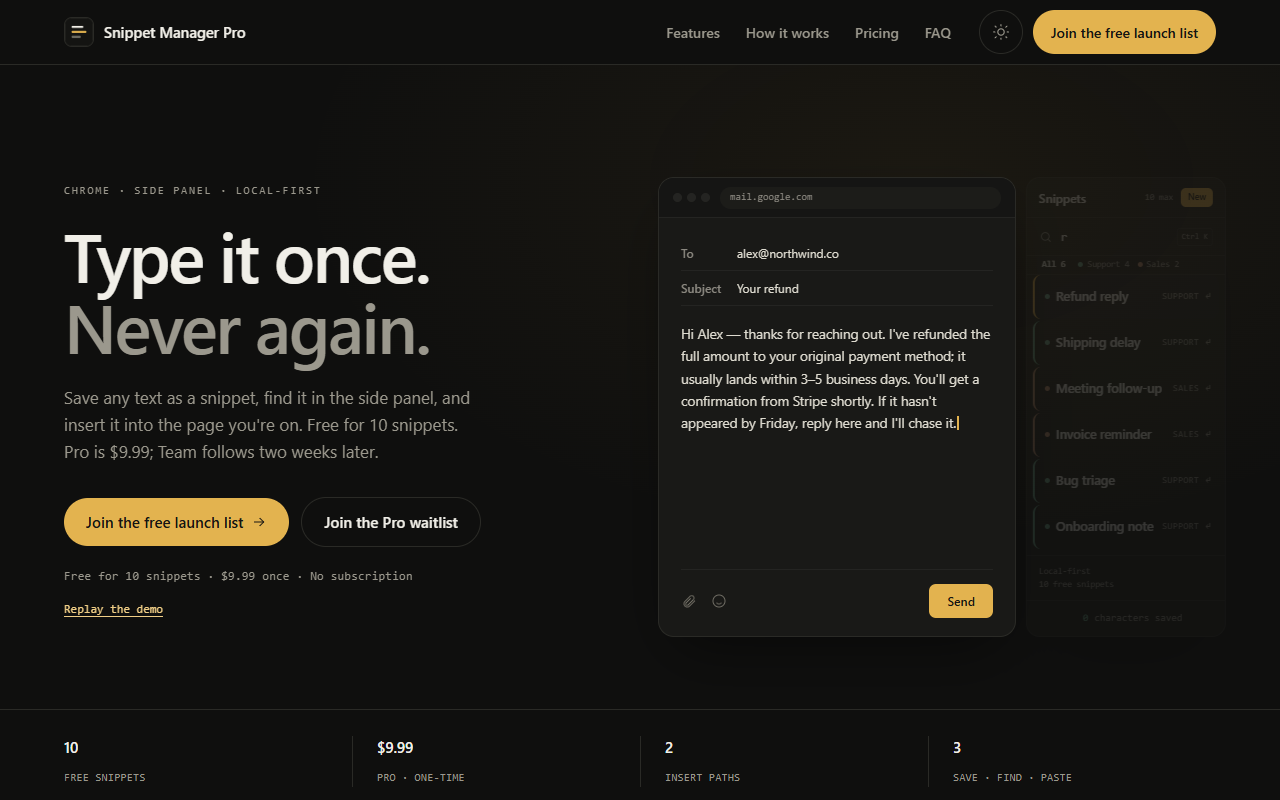
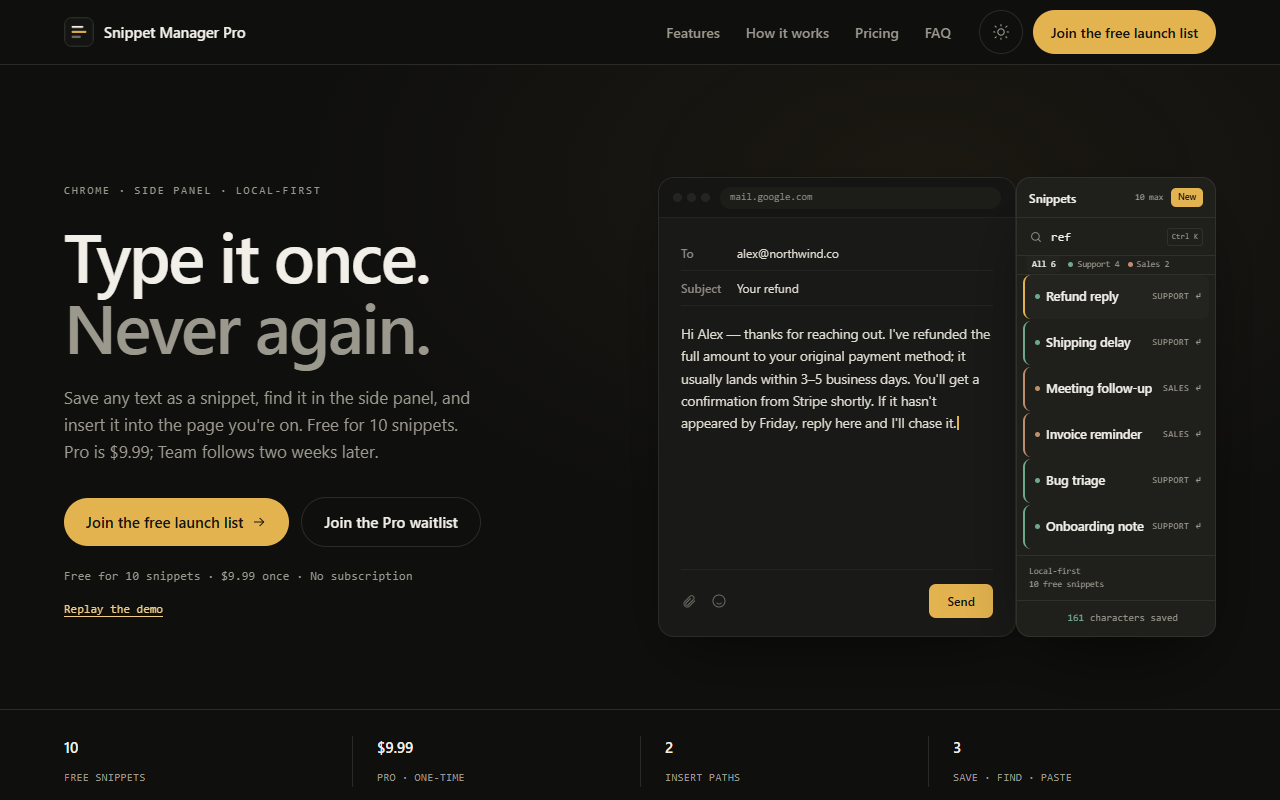
fix: resolve 2-agent PR review blockers, accessibility, and PDF/regex checks
Removes Carenet-specific Salesforce phrasing from downloadable PDF resumes, fixes AI QA gate plural/percentage regexes (4/4 defects caught), renders real blocked error reasons in HRIS table, adds Object.hasOwn focus guard, fixes dark-hero focus-visible contrast and print CSS, resolves ARIA generic-div naming and prev/next nav parity, and expands automated PDF and Playwright tests.

diff --git a/index.html b/index.html
@@ -88,7 +88,7 @@
         Three years full-time remote at Carenet Health supervising up to 80 specialists across 900+ clinical facilities and 200+ CenterWell locations plus six years of regulated Medicaid coordination, paired with hands-on web development, Python/REST API/Zapier automation, Stripe billing QA, and interactive SOP tooling.
       </p>
 
-      <div class="availability-bar" aria-label="Work authorization and W-2 availability">
+      <div class="availability-bar" role="group" aria-label="Work authorization and W-2 availability">
         <span class="avail-pill avail-pill-accent">Seeking Full-Time Remote W-2 Role</span>
         <span class="avail-pill">US Authorized (No Sponsorship)</span>
         <span class="avail-pill">Remote US (Eastern Time) | Immediate Start</span>
@@ -102,7 +102,7 @@
       </div>
       <p id="action-status" class="meta-note hero-note mt-sm" aria-live="polite"></p>
 
-      <div class="lens-bar mt-md" aria-label="Tailor portfolio view by hiring focus">
+      <div class="lens-bar mt-md">
         <span class="lens-label">Hiring for? Pick a lens:</span>
         <div class="filter-bar mb-0" role="group" aria-label="Filter work samples by role focus">
           <button class="filter-pill" type="button" data-filter="all" aria-pressed="true">All Proof (6)</button>
@@ -116,7 +116,7 @@
 
       <div id="focus-callout" class="callout callout-hero" hidden aria-live="polite"></div>
 
-      <div class="scope-grid" aria-label="Career scope overview">
+      <div class="scope-grid" role="group" aria-label="Career scope overview">
         <div class="scope-card">
           <div class="scope-value">Up to 80 Specialists</div>
           <div class="scope-label">900+ clinical facilities &amp; 200+ after-hours CenterWell sites supported at Carenet Health (2022 - 2025)</div>
@@ -146,7 +146,7 @@
         </div>
       </div>
 
-      <div class="panel workbench-panel mt-0" id="live-workbench" aria-labelledby="workbench-heading">
+      <section class="panel workbench-panel mt-0" id="live-workbench" aria-labelledby="workbench-heading">
         <div class="section-header mb-sm">
           <div>
             <span class="tag">30-Second Live Proof</span>
@@ -162,8 +162,8 @@
         <div id="wb-panel-hc" role="tabpanel" aria-labelledby="wb-tab-hc" tabindex="0">
           <p class="meta-note mt-0">Click a synthetic healthcare scenario to generate an audit-ready supervisor handoff note:</p>
           <div class="hero-actions mt-sm">
-            <button class="btn btn-secondary btn-sm" type="button" data-wb-hc="elig">Medicaid Eligibility Mismatch</button>
-            <button class="btn btn-secondary btn-sm" type="button" data-wb-hc="afterhours">After-Hours Clinical Warm Handoff</button>
+            <button class="btn btn-secondary btn-sm wb-toggle" type="button" data-wb-hc="elig" aria-pressed="true">Medicaid Eligibility Mismatch</button>
+            <button class="btn btn-secondary btn-sm wb-toggle" type="button" data-wb-hc="afterhours" aria-pressed="false">After-Hours Clinical Warm Handoff</button>
             <a class="btn btn-sm" href="./samples/healthcare-escalation-qa.html">Open Full Healthcare QA Playbook &rarr;</a>
           </div>
           <pre id="wb-hc-output" class="mt-sm" aria-live="polite">[SYNTHETIC CASE - ELIGIBILITY QA] Primary payer portal verified active effective 2026-11-01 (CRM cache showed stale 2026-10-31 term). Confirmed coverage window for clinic coordinator, logged verification timestamp in CRM, and flagged sync lag for Ops review.</pre>
@@ -195,7 +195,7 @@
           </div>
           <pre id="wb-tech-output" class="mt-sm" aria-live="polite">Click "Run Validation Check" to inspect caught ISO-8601 date and Stripe HMAC-SHA256 defects.</pre>
         </div>
-      </div>
+      </section>
 
       <p id="filter-status" class="meta-note mt-md" aria-live="polite">Showing all 6 work samples.</p>
 
@@ -534,7 +534,7 @@
     <span>
       <a href="mailto:joshuawilliamsky@yahoo.com">joshuawilliamsky@yahoo.com</a> |
       <a href="https://www.linkedin.com/in/josh-williams-094338120" target="_blank" rel="noopener">LinkedIn</a> |
-      <a href="https://github.com/Coding-Dev-Tools" target="_blank" rel="noopener">GitHub</a> |
+      <a href="https://github.com/Coding-Dev-Tools" target="_blank" rel="noopener">GitHub</a><span class="print-hide"> | </span>
       <button class="footer-link-btn" type="button" id="print-summary-btn">Print Summary</button>
     </span>
   </footer>

diff --git a/app.js b/app.js
@@ -63,10 +63,12 @@
     afterhours:
       "[SYNTHETIC CASE - AFTER-HOURS WARM HANDOFF] Verified active on-call roster for Clinic Site #204. Primary on-call clinician confirmed callback live at 21:14 ET; logged named receiving owner, timestamp, and written facility confirmation.",
   };
-  document.querySelectorAll("[data-wb-hc]").forEach((btn) => {
+  const wbHcButtons = Array.from(document.querySelectorAll("[data-wb-hc]"));
+  wbHcButtons.forEach((btn) => {
     btn.addEventListener("click", () => {
       const key = btn.getAttribute("data-wb-hc");
-      if (wbHcOut && WB_HC_NOTES[key]) wbHcOut.textContent = WB_HC_NOTES[key];
+      wbHcButtons.forEach((b) => b.setAttribute("aria-pressed", b === btn ? "true" : "false"));
+      if (wbHcOut && Object.hasOwn(WB_HC_NOTES, key)) wbHcOut.textContent = WB_HC_NOTES[key];
     });
   });
 
@@ -111,7 +113,7 @@
 
   function applyFilter(key, updateQuery = true) {
     const cleanKey = (key || "all").toLowerCase();
-    const normalized = FOCUS_MAP[cleanKey] || "all";
+    const normalized = Object.hasOwn(FOCUS_MAP, cleanKey) ? FOCUS_MAP[cleanKey] : "all";
     let visibleCount = 0;
 
     buttons.forEach((btn) => {
@@ -142,9 +144,9 @@
     }
 
     if (focusCallout) {
-      const note = FOCUS_NOTES[normalized];
+      const note = Object.hasOwn(FOCUS_NOTES, normalized) ? FOCUS_NOTES[normalized] : "";
       focusCallout.hidden = !note;
-      focusCallout.textContent = note || "";
+      focusCallout.textContent = note;
     }
 
     if (

diff --git a/styles.css b/styles.css
@@ -99,6 +99,10 @@ a:hover {
   outline-offset: 2px;
 }
 
+.hero-dark :focus-visible {
+  outline-color: #5eead4;
+}
+
 .topbar {
   position: sticky;
   top: 0;
@@ -533,6 +537,12 @@ a:hover {
 
 .workbench-panel {
   border-left: 4px solid var(--teal);
+}
+
+.wb-toggle[aria-pressed="true"] {
+  background: var(--teal-soft);
+  border-color: var(--teal);
+  color: var(--teal-hover);
 }
 
 .role-card-anchor {
@@ -1153,7 +1163,10 @@ pre {
   #tree-reset,
   #tree-back,
   #tree-copy,
+  #hc-copy-note,
+  #wh-copy-comms,
   #quiz-reset,
+  .print-hide,
   .footer-link-btn,
   .actions {
     display: none !important;
@@ -1167,14 +1180,21 @@ pre {
     color: #0f172a !important;
     border: 1px solid #cbd5e1 !important;
   }
-  .hero-dark h1,
-  .hero-dark .hero-subtitle,
-  .hero-dark .scope-value,
-  .hero-dark .scope-label,
-  .hero-dark .avail-pill,
-  .hero-dark .eyebrow {
+  .hero.hero-dark h1,
+  .hero.hero-dark .hero-subtitle,
+  .hero.hero-dark .scope-value,
+  .hero.hero-dark .scope-label,
+  .hero.hero-dark .hero-note {
+    color: #0f172a !important;
+    background: transparent !important;
+  }
+  .hero.hero-dark .scope-card,
+  .hero.hero-dark .avail-pill,
+  .hero.hero-dark .eyebrow,
+  .hero.hero-dark .callout-hero {
     color: #0f172a !important;
     background: #f8fafc !important;
+    border-color: #cbd5e1 !important;
   }
   .hero,
   .panel,

diff --git a/demos/hris-identity/index.html b/demos/hris-identity/index.html
@@ -129,7 +129,8 @@ EMP-1003,leave,Casey Rivera,Engineering,mgr-eng@example.test,2026-10-13,terminat
           addCell(row, event.action || "-", "", "Event");
           const reviewStatus = event.decision === "blocked" ? "Blocked" : "Review recommended";
           addCell(row, reviewStatus, event.decision === "blocked" ? "blocked" : "pending", "Review status");
-          addCell(row, event.review_summary || event.errors.join("; "), "", "Recommendation");
+          const recommendation = event.decision === "blocked" ? event.errors.join("; ") : event.review_summary;
+          addCell(row, recommendation, "", "Recommendation");
           resultsBody.appendChild(row);
         }
         const s = result.summary;
@@ -143,9 +144,10 @@ EMP-1003,leave,Casey Rivera,Engineering,mgr-eng@example.test,2026-10-13,terminat
         } catch (error) {
           resultsBody.replaceChildren();
           const row = document.createElement("tr");
-          addCell(row, "Input error", "blocked");
+          addCell(row, "Input error", "blocked", "Review status");
           const cell = document.createElement("td");
           cell.colSpan = 3;
+          cell.setAttribute("data-label", "Details");
           cell.textContent = error.message;
           row.appendChild(cell);
           resultsBody.appendChild(row);

diff --git a/samples/samples.js b/samples/samples.js
@@ -561,12 +561,12 @@
       },
       {
         label: "Unsafe privacy / PHI workaround",
-        re: /\b(email\s+(patient|member)\s+(spreadsheet|csv|ssn|phi)|send\s+unencrypted|bypass\s+intake)\b/i,
+        re: /\b(email\s+(patient|member)\s+(spreadsheets?|csvs?|ssns?|phi)|send\s+unencrypted|bypass\s+intake)\b/i,
         fix: "Route strictly through approved encrypted queues with redacted references.",
       },
       {
         label: "Unverified percentage metric",
-        re: /\b(cuts?\s+ramp\s+time\s+by\s+\d+%|reduces?\s+errors?\s+by\s+\d+%|increases?\s+retention\s+by\s+\d+%)\b/i,
+        re: /\b(cuts?\s+ramp\s+time\s+by\s+\d+%|reduces?\s+errors?\s+by\s+\d+%|increases?\s+retention\s+by\s+\d+%)(?!\w)/i,
         fix: "Cite a real exported denominator and timeframe, or remove the unverified percentage.",
       },
       {

diff --git a/samples/ai-verification-rubric.html b/samples/ai-verification-rubric.html
@@ -147,8 +147,8 @@
 
 POLICY_GATE_RULES = (
     ("blanket_guarantee", r"\b(100%\s*(error-free|guaranteed)|all\s+50\s+states\s+verified)\b"),
-    ("unsafe_phi_shortcut", r"\b(email\s+(patient|member)\s+(spreadsheet|csv|phi)|send\s+unencrypted)\b"),
-    ("unverified_pct_claim", r"\b(cuts?\s+ramp\s+time\s+by\s+\d+%|reduces?\s+errors?\s+by\s+\d+%)\b"),
+    ("unsafe_phi_shortcut", r"\b(email\s+(patient|member)\s+(spreadsheets?|csvs?|phi)|send\s+unencrypted)\b"),
+    ("unverified_pct_claim", r"\b(cuts?\s+ramp\s+time\s+by\s+\d+%|reduces?\s+errors?\s+by\s+\d+%)(?!\w)"),
     ("escalation_suppression", r"\b(never\s+escalate|skip\s+(schema|qa)\s+checks?)\b"),
 )
 

diff --git a/samples/webhook-troubleshooting-job-aid.html b/samples/webhook-troubleshooting-job-aid.html
@@ -62,7 +62,7 @@
         <button id="tab-wh-sig" class="tab-btn" type="button" role="tab" data-webhook-case="sig_mismatch" aria-controls="wh-panel" aria-selected="false" tabindex="-1">Webhook Signature Mismatch</button>
       </div>
 
-      <div id="wh-panel" role="tabpanel" aria-labelledby="tab-wh-auth" aria-live="polite" tabindex="0">
+      <div id="wh-panel" role="tabpanel" aria-labelledby="tab-wh-auth" tabindex="0">
         <h3 id="wh-title" class="text-teal mt-sm">Case</h3>
         <p class="fw-600 mt-sm">Captured Request / Error Evidence (Sanitized Sample)</p>
         <pre id="wh-payload"></pre>

diff --git a/samples/healthcare-escalation-qa.html b/samples/healthcare-escalation-qa.html
@@ -62,7 +62,7 @@
         <button id="tab-hc-auth" class="tab-btn" type="button" role="tab" data-hc-case="auth_audit" aria-controls="hc-panel" aria-selected="false" tabindex="-1">Authorization Documentation QA</button>
       </div>
 
-      <div id="hc-panel" role="tabpanel" aria-labelledby="tab-hc-elig" aria-live="polite" tabindex="0">
+      <div id="hc-panel" role="tabpanel" aria-labelledby="tab-hc-elig" tabindex="0">
         <h3 id="hc-title" class="text-teal mt-sm">Scenario</h3>
         <div class="diff-grid mt-sm">
           <div class="diff-box bad">

diff --git a/samples/onboarding-vilt-module.html b/samples/onboarding-vilt-module.html
@@ -245,7 +245,7 @@
   </main>
 
   <footer class="footer">
-    <span><a href="../index.html">&larr; Portfolio Home</a></span>
+    <span><a href="./healthcare-escalation-qa.html">&larr; Previous: Healthcare QA</a></span>
     <span><a href="./escalation-decision-tree.html">Next Sample: Escalation Decision Tree &rarr;</a></span>
   </footer>
 

diff --git a/tests/test_portfolio_site.py b/tests/test_portfolio_site.py
@@ -38,6 +38,7 @@ FORBIDDEN_REGEXES: tuple[tuple[str, str], ...] = (
     ("cicd", r"CI/CD"),
     ("csat", r"\bCSAT\b"),
     ("sql", r"\bSQL\b"),
+    ("typescript", r"\bTypeScript\b"),
     ("ops_supervisor", r"Operations Supervisor"),
     ("care_coord", r"Care Coordinator"),
     ("bluegrass", r"Bluegrass"),
@@ -143,7 +144,7 @@ class TestPortfolioContentAndLinks(unittest.TestCase):
 
     def test_no_forbidden_claims_or_pii_in_public_site(self):
         scanned = []
-        for ext in ("*.html", "*.js", "*.md"):
+        for ext in ("*.html", "*.js", "*.md", "*.css", "*.xml"):
             scanned.extend(ROOT.rglob(ext))
         for path in scanned:
             if ".git" in path.parts:
@@ -157,6 +158,22 @@ class TestPortfolioContentAndLinks(unittest.TestCase):
                     f"{path.relative_to(ROOT)} matched forbidden pattern {name!r} ({pat!r})",
                 )
 
+        # Scan all public downloadable PDF resumes for PII, forbidden claims, and Carenet-no-Salesforce invariant.
+        from pypdf import PdfReader
+
+        for pdf_path in sorted((ROOT / "assets" / "resume").glob("*.pdf")):
+            reader = PdfReader(str(pdf_path))
+            self.assertEqual(len(reader.pages), 1, f"{pdf_path.name} must be 1 page")
+            pdf_text = "\n".join((p.extract_text() or "") for p in reader.pages)
+            for name, pat in FORBIDDEN_REGEXES:
+                self.assertIsNone(
+                    re.search(pat, pdf_text, flags=re.IGNORECASE),
+                    f"{pdf_path.relative_to(ROOT)} matched forbidden pattern {name!r} ({pat!r})",
+                )
+            self.assertIn("Carenet Health |", pdf_text, f"Missing Carenet Health role header in {pdf_path.name}")
+            c_slice = pdf_text[pdf_text.index("Carenet Health |") : pdf_text.index("Independent SaaS Partner")]
+            self.assertNotIn("Salesforce", c_slice, f"Carenet-specific Salesforce wording in {pdf_path.name}")
+
         # Ensure Carenet role card keeps verified wording ("up to 80", no Carenet-specific Salesforce claim).
         home = (ROOT / "index.html").read_text(encoding="utf-8")
         carenet_slice = home[home.index("Carenet Health |") : home.index("Independent SaaS Partner")]
@@ -165,7 +182,7 @@ class TestPortfolioContentAndLinks(unittest.TestCase):
 
     def test_reverse_chronology_on_homepage(self):
         text = (ROOT / "index.html").read_text(encoding="utf-8")
-        markers = ("Sep 2025", "Oct 2022", "Jun 2018", "Jan 2012")
+        markers = ("Sep 2025", "Oct 2022", "Jun 2018", "Jan 2016", "Jan 2012")
         positions = [text.find(m) for m in markers]
         self.assertTrue(all(p >= 0 for p in positions), f"Missing date markers: {positions}")
         self.assertEqual(positions, sorted(positions), f"Chronology out of order: {positions}")
@@ -235,7 +252,7 @@ class TestPortfolioContentAndLinks(unittest.TestCase):
     def test_hris_node_unit_tests_pass(self):
         node = shutil.which("node")
         if not node:
-            self.skipTest("node not installed")
+            self.fail("node is required to run HRIS unit tests")
         proc = subprocess.run(
             [node, "--test", str(ROOT / "demos" / "hris-identity" / "simulator.test.js")],
             capture_output=True,
@@ -265,13 +282,13 @@ class TestPortfolioBrowserInteractions(unittest.TestCase):
                 return playwright.chromium.launch(headless=True, **kwargs)
             except Exception:
                 continue
-        self.skipTest("no chromium, chrome, or edge binary available")
+        self.fail("no chromium, chrome, or edge binary available for Playwright tests")
 
     def test_pages_render_and_interact_without_errors_or_overflow(self):
         try:
             from playwright.sync_api import sync_playwright
-        except ImportError:
-            self.skipTest("playwright not installed in this interpreter")
+        except ImportError as exc:
+            self.fail(f"playwright is required for browser interaction tests: {exc}")
 
         base = f"http://127.0.0.1:{self.port}"
         with sync_playwright() as pw:
@@ -313,22 +330,27 @@ class TestPortfolioBrowserInteractions(unittest.TestCase):
                     else:
                         self.assertIn(f"focus={filt}", page.url)
 
-                # Inline 30-second proof workbench tabs & interactive buttons
+                # Inline 30-second proof workbench tabs, keyboard nav, & aria-pressed toggles
                 page.click('[data-wb-hc="afterhours"]')
+                self.assertEqual(page.locator('[data-wb-hc="afterhours"]').get_attribute("aria-pressed"), "true")
                 self.assertIn("Clinic Site #204", page.locator("#wb-hc-output").inner_text())
-                page.click("#wb-tab-ai")
+                page.locator("#wb-tab-hc").focus()
+                page.locator("#wb-tab-hc").press("ArrowRight")
                 self.assertTrue(page.locator("#wb-panel-ai").is_visible())
                 page.click("#wb-tab-tech")
                 page.click("#wb-run-check")
                 self.assertIn("BLOCKED", page.locator("#wb-tech-output").inner_text())
 
-                page.goto(f"{base}/index.html?focus=unknown_key", wait_until="load")
-                self.assertEqual(page.locator("[data-categories]:not(.is-hidden)").count(), 6)
+                # Invalid and Object.prototype keys safely fall back to All (6)
+                for bad_focus in ("unknown_key", "constructor", "__proto__"):
+                    page.goto(f"{base}/index.html?focus={bad_focus}", wait_until="load")
+                    self.assertEqual(page.locator("[data-categories]:not(.is-hidden)").count(), 6)
 
-                # 1b. Dedicated Healthcare & Payer Operations QA sample
+                # 1b. Dedicated Healthcare & Payer Operations QA sample (click + keyboard tab nav)
                 page.goto(f"{base}/samples/healthcare-escalation-qa.html", wait_until="load")
                 self.assertIn("Eligibility", page.locator("#hc-title").inner_text())
-                page.click("#tab-hc-afterhours")
+                page.locator("#tab-hc-elig").focus()
+                page.locator("#tab-hc-elig").press("ArrowRight")
                 self.assertIn("Clinic Site #204", page.locator("#hc-note").inner_text())
                 page.click("#tab-hc-auth")
                 self.assertIn("Prior-Authorization", page.locator("#hc-title").inner_text())
@@ -369,12 +391,14 @@ class TestPortfolioBrowserInteractions(unittest.TestCase):
                 page.click("#tree-back")
                 self.assertIn("Step 3 of 4", page.locator("#tree-step").inner_text())
 
-                # 4. AI Verification rubric: neutral 0/6 default, scenario tabs, live draft checker, preset 6/6, clear
+                # 4. AI Verification rubric: neutral 0/6 default, scenario tabs, live draft checker (all 4 rules), preset 6/6, clear
                 page.goto(f"{base}/samples/ai-verification-rubric.html", wait_until="load")
                 self.assertIn("0 / 6", page.locator("#rubric-score").inner_text())
-                self.assertIn("BLOCKED", page.locator("#qa-draft-result").inner_text())
+                self.assertIn("BLOCKED (4 defects caught)", page.locator("#qa-draft-result").inner_text())
                 page.click("#qa-draft-load-pass")
                 self.assertIn("PASS", page.locator("#qa-draft-result").inner_text())
+                page.click("#qa-draft-load-fail")
+                self.assertIn("BLOCKED (4 defects caught)", page.locator("#qa-draft-result").inner_text())
                 page.click("#tab-case-data")
                 self.assertIn("480 ingested rows", page.locator("#case-data").inner_text())
                 page.click("#tab-case-inv")
@@ -395,11 +419,14 @@ class TestPortfolioBrowserInteractions(unittest.TestCase):
                 page.click("#tab-wh-sig")
                 self.assertIn("Stripe-Signature", page.locator("#wh-payload").inner_text())
 
-                # 6. HRIS simulator: default 3 rows, defect preset catches blocks, invalid CSV handling, details expand, reset
+                # 6. HRIS simulator: default 3 rows, defect preset displays real blocked errors, invalid CSV handling, details expand, reset
                 page.goto(f"{base}/demos/hris-identity/index.html", wait_until="load")
                 self.assertEqual(page.locator("#results-body tr").count(), 3)
                 page.click("#defect-button")
-                self.assertIn("Blocked", page.locator("#results-body").inner_text())
+                hris_table_text = page.locator("#results-body").inner_text()
+                self.assertIn("Blocked", hris_table_text)
+                self.assertIn("YYYY-MM-DD", hris_table_text)
+                self.assertIn("Department is not in the approved mapping", hris_table_text)
                 page.fill("#csv-input", "bad_header\n1")
                 page.click("#simulate-button")
                 self.assertIn("Input error", page.locator("#results-body").inner_text())
